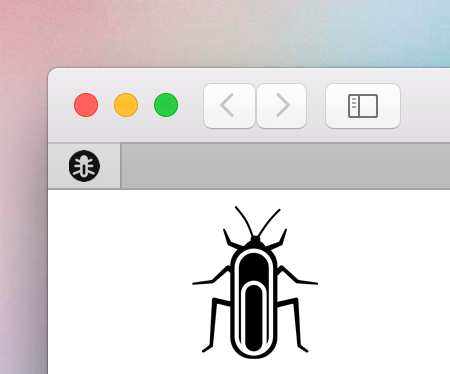
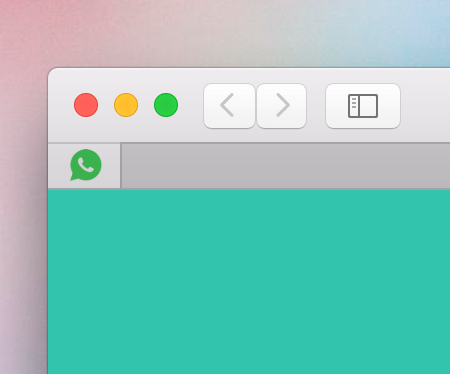
colors

diff --git a/gallery/whatsapp/index.html b/gallery/whatsapp/index.html
@@ -4,7 +4,7 @@
   <meta charset="utf-8" />
   <title>WhatsApp</title>
   <link rel="stylesheet" type="text/css" href="http://davidfmiller.github.io/man/man.css">
-  <link rel="mask-icon" href="favicon.svg" color="rgba(33,178,148,1.0)">
+  <link rel="mask-icon" href="favicon.svg" color="rgba(59,176,80,1.0)">
 </head>
 <body>
 
@@ -12,7 +12,7 @@
 
 <p>I've created a <a href="http://blog.iconfactory.com/2015/11/the-new-favicon/">Safari Tab Icon</a> for <a href="https://www.whatsapp.com/">WhatsApp</a>. To use it, upload the <a href="favicon.svg">SVG file</a> to WhatsApp&rsquo;s front-end mainframes and reference it in your page headers like so:</p>
 
-<pre><span class="nt">&lt;link</span> <span class="na">rel=</span><span class="s">"mask-icon"</span> <span class="na">href=</span><span class="s">"favicon.svg"</span> <span class="na">color=</span><span class="s">"rgba(33,178,148,1.0)"</span><span class="nt">&gt;</span></pre>
+<pre><span class="nt">&lt;link</span> <span class="na">rel=</span><span class="s">"mask-icon"</span> <span class="na">href=</span><span class="s">"favicon.svg"</span> <span class="na">color=</span><span class="s">"rgba(59,176,80,1.0)"</span><span class="nt">&gt;</span></pre>
 
 <p>You can see a demonstration of it here:</p>
 
